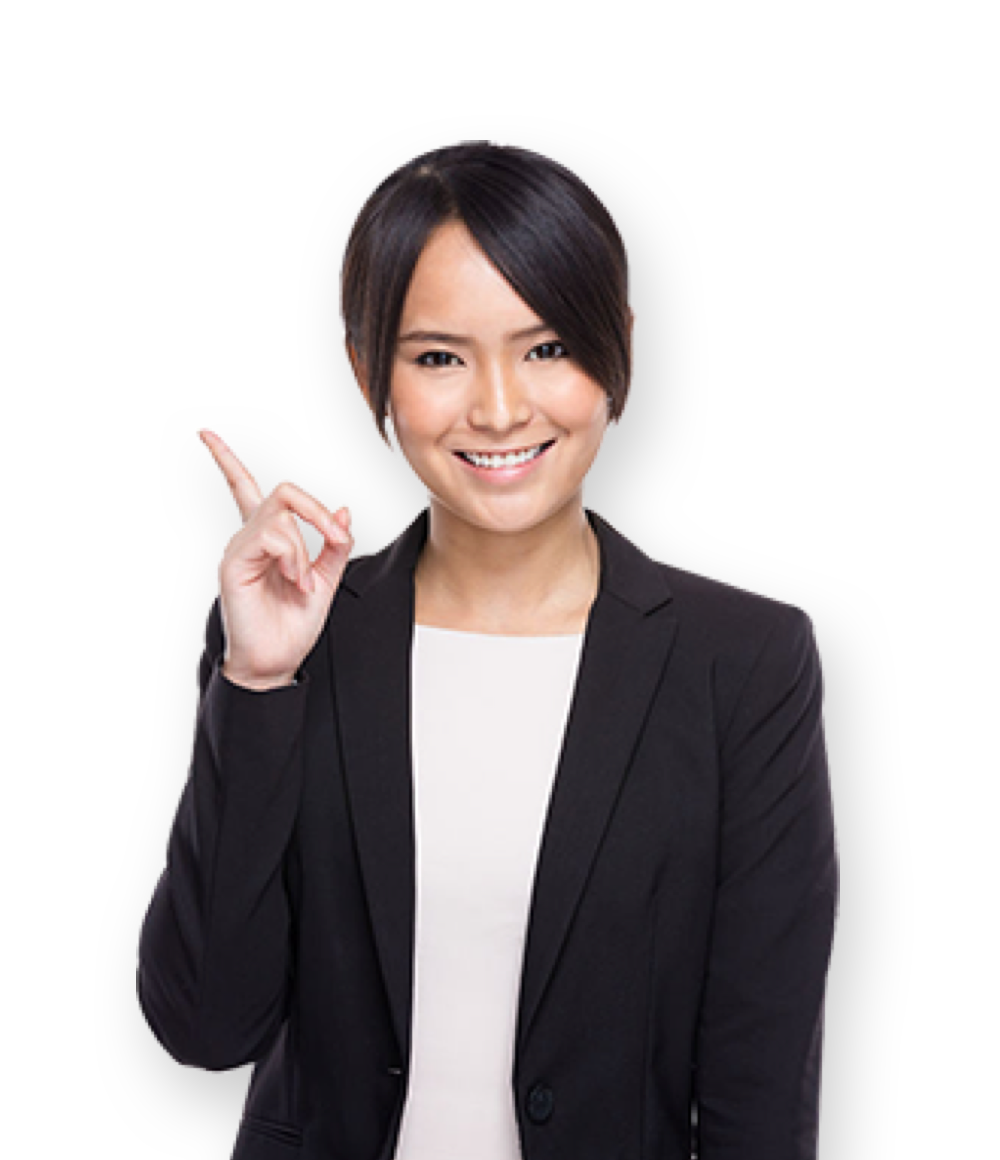
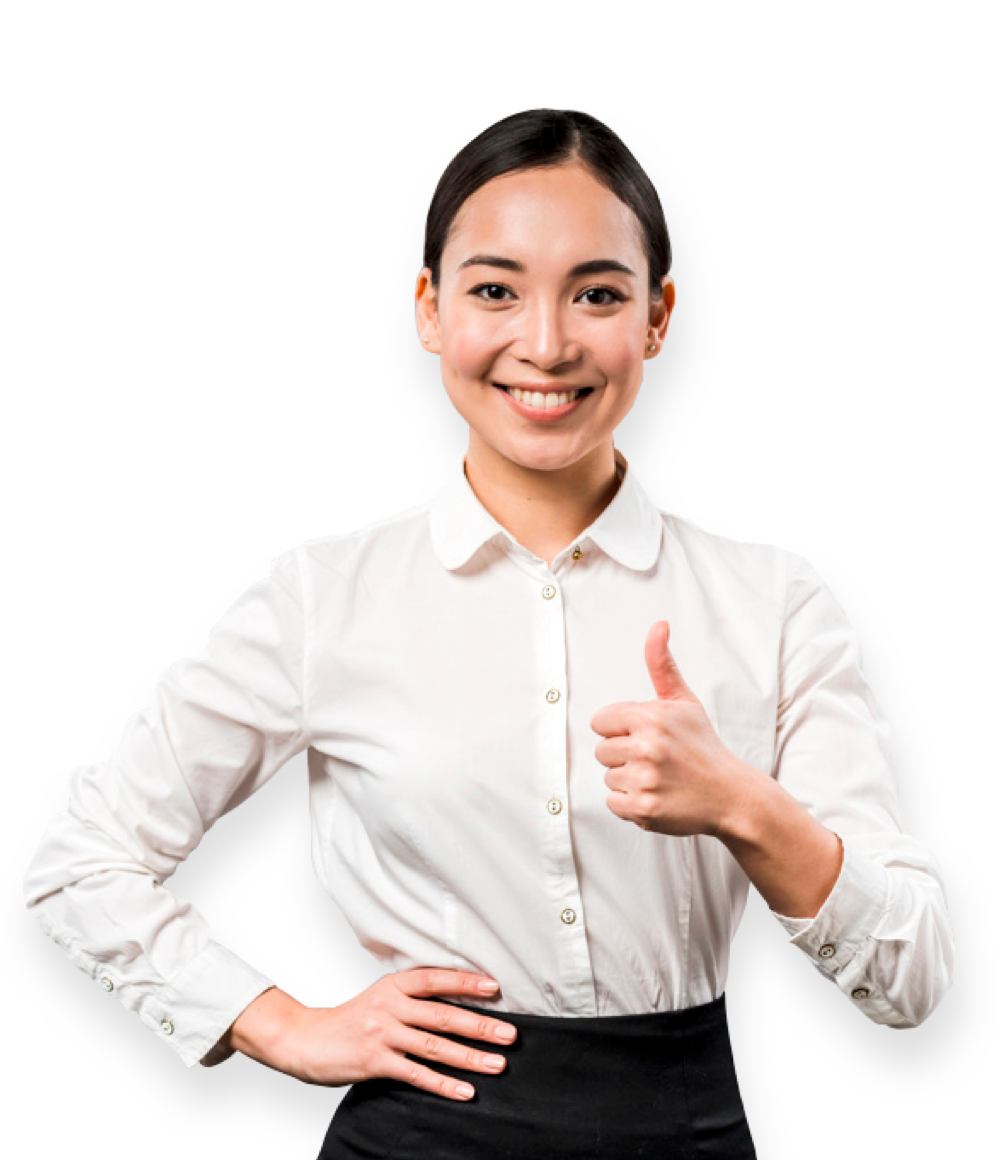
asdasasd

diff --git a/html/common/css/style.css b/html/common/css/style.css
@@ -306,17 +306,9 @@ line-height: 28px;}*/
 
 /*계산기 loan amount peso 입력*/
 .popup_wrap .inner-rule .displayCell{position:relative;}
-.popup_wrap .inner-rule .displayCell.txt-peso{padding-right: 100px;}
-.popup_wrap .inner-rule .displayCell.txt-peso:after{content: 'peso';
-    position: absolute;
-    top:24px;
-    right: -1px;
-    font-family: Lato-Regular;
-    font-size: 12px;
-    color: #999999;
-    letter-spacing: -0.2px;
-    text-align: right;
-	background:#f0f0f0;padding:10px 0 10px 10px;}
+.popup_wrap .inner-rule .displayCell.txt-peso{padding-right: 100px;width:47%;display:block;font-family: Lato-Regular;font-size: 12px;color: #999999;letter-spacing: -0.2px;}
+.popup_wrap .inner-rule .displayCell.txt-peso:after{content: 'PESO';position: absolute;top:32px;right: -1px;font-family: Lato-Regular;font-size: 12px;color: #999999;letter-spacing: -0.2px;text-align:right;background:#f0f0f0;padding:5px 10px 5px 10px;}
+.popup_wrap .inner-rule .txt_loan{font-family: Lato-Regular;font-size: 12px;color: #999999;letter-spacing: -0.2px;line-height: 16px;padding-top:2px;}
 
 /* common-selectType */
 .common-selectType{background:#f0f0f0;height:40px;line-height:40px;border:1px solid #f0f0f0;letter-spacing: -0.2px;text-indent:7px;width:100%;transition:all 0.5s;font-size:12px;color:#999;}
@@ -772,6 +764,8 @@ color: #222222;letter-spacing: -0.2px;text-align: center;line-height: 28px;}
 [data-click="main-vsSlick"].loan_img .counter_wrap .served span.s_txt2 em{display:none;}
 [data-click="main-vsSlick"].loan_img .counter_wrap .served span.s_txt3{font-family: Lato-Regular;font-size: 13px;color: #FFFFFF;letter-spacing: 0;text-align: center;display:block;}
 [data-click="main-vsSlick"].loan_img .box-img img{width:213%;}/*width:200%;*/
+[data-click="main-vsSlick"] .box-txt .txt-1 span{color:#ff7a01;}/*2020-06-03 메인 상단*/
+[data-click="main-vsSlick"] .box-txt .txt-1.tt1{margin:0;width:320px;}/*2020-06-03 메인 상단 문구 사이즈 추가*/
 
 
 /*main loan - Main Counter*/
@@ -1773,14 +1767,12 @@ background:url('../images/icon/ic_calculator_control.png') no-repeat 0 0;backgro
 .inner-rule.loan_wrap .count-loans span#count-sum2, span#count-fee2{font-family: Lato-Bold;font-size: 18px;color: #222222;letter-spacing: -0.18px;text-align: right;}
 .inner-rule.loan_wrap .count-loans span#count-total2{font-family: Lato-Black;font-size: 20px;color: #FF7A01;letter-spacing: -0.18px;text-align: right;position:absolute;top:26px;right:33px;}
 .inner-rule.loan_wrap .count-loans span.in_case{font-family: Lato-Regular;
-font-size: 14px;
-color: #999999;
-letter-spacing: -0.17px;
-text-align: right;padding-top:30px;}
+font-size: 14px;color: #999999;letter-spacing: -0.17px;text-align: right;padding-top:30px;}
 .inner-rule.loan_wrap .count-loans .pt{padding: 16px 0 20px 0;border-bottom:1px solid #0000001a;}
 .inner-rule.loan_wrap .count-loans .pt2{padding-top:20px;position:relative;}
 .inner-rule.loan_wrap .loan_btn .common-btnType-15{margin:40px 0 0 0;font-family: AppleSDGothicNeo-Regular;font-size: 16px;color: #FFFFFF;letter-spacing: -0.18px;text-align: center;}
 .inner-rule.loan_wrap .loan_txt{font-family: Lato-Regular;font-size: 13px;color: #999999;letter-spacing: -0.2px;line-height: 18px;margin-top:20px;}
+
 
 /*Blog-detail*/
 
@@ -2049,7 +2041,12 @@ text-align: right;padding-top:30px;}
 	[data-click="main-vsSlick"] .txt-4{font-size:26px;line-height:32px;}
 	[data-click="main-vsSlick"] .txt-4 br{display:block;}
 	[data-click="main-vsSlick"] .img-1 img{width:257px;}
-	[data-click="main-vsSlick"] .slick-slide:after{background-image:url('../images/bg/bg_main_tablet.png');background-repeat:repeat-y;background-position:0;content:'';clear:both;position:absolute;top:0;left:0;bottom:0;background-color:transparent;}/*2020-05-25 display:block;*/
+	[data-click="main-vsSlick"] .slick-slide:after{background-repeat:repeat-y;background-position:0;content:'';clear:both;position:absolute;top:0;left:0;bottom:0;background-color:transparent;}/*2020-05-25 display:block;*/
+	[data-click="main-vsSlick"].loan_img .slick-slide:before
+	.bg-1 .slick-slide:after{background-image:url('../images/bg/bg_main_tablet.png');}
+	[data-click="main-vsSlick"].bg-2 .slick-slide:after{background-image:url('../images/bg/bg_main_tablet.png');}
+	[data-click="main-vsSlick"].bg-3 .slick-slide:after{background-image:url('../images/bg/bg_main_tablet.png');}
+	[data-click="main-vsSlick"].bg-4 .slick-slide:after{background-image:url('../images/bg/bg_main_tablet.png');}
 
 	/*[data-click="main-vsSlick"] .box-txt .txt-1 span:after{content:'';display:block;clear:both;background-repeat:no-repeat;background-position:0;background-size:16px;width:16px;height:16px;position:absolute;top:190px;right:112px;background-image:url('../images/icon/ic_arrow_more_white.png');}*/
 
@@ -2313,6 +2310,17 @@ text-align: right;padding-top:30px;}
 	#loanCalculator .inner-rule.loan_wrap .gap .inp_radio.type-3 input:checked + label:before {content: '';background: url(../images/icon/btn_apply_check_s.png) -5px 0 no-repeat;background-size: 22px;}
 	#loanCalculator .inner-rule.loan_wrap .gap .inp_radio.type-3 label:befor{left: 50% !important;margin-left: -57px !important;}
 
+	/*계산기 loan amount peso 입력*/
+	.popup_wrap .inner-rule .displayCell{position:relative;}
+	.popup_wrap .inner-rule .displayCell.txt-peso{padding-right: 100px;width:47%;display:block;font-family: Lato-Regular;font-size: 12px;color: #999999;letter-spacing: -0.2px;}
+	.popup_wrap .inner-rule .displayCell.txt-peso:after{content: 'PESO';position: absolute;top:32px;right: -1px;font-family: Lato-Regular;font-size: 12px;color: #999999;letter-spacing: -0.2px;text-align: right;background:#f0f0f0;padding:5px 10px 5px 10px;}
+	.popup_wrap .inner-rule .txt_loan{font-family: Lato-Regular;font-size: 12px;color: #999999;letter-spacing: -0.2px;line-height: 16px;padding-top:2px;}
+	.popup_wrap .inner-rule.loan_wrap .slider-item .loan_num{}
+	.popup_wrap .inner-rule.loan_wrap .slider-item .loan_num li{display:inline-block;padding-right:53px;font-family: Lato-Regular;font-size: 13px;color: #999999;letter-spacing: -0.2px;}
+	.popup_wrap .inner-rule.loan_wrap .slider-item .loan_num li:nth-child(5){padding-right:0;}
+	.popup_wrap .inner-rule.loan_wrap .slider-item .loan_num li{display:inline-block;padding-right:53px;font-family: Lato-Regular;font-size: 13px;color: #999999;letter-spacing: -0.2px;}
+	.popup_wrap .inner-rule.loan_wrap .slider-item .loan_num li:nth-child(5){padding-right:0;}
+
 
 
 	[data-click="main-vsSlick"]{height:1156px;}/*top:119px;*/
@@ -2344,7 +2352,6 @@ text-align: right;padding-top:30px;}
 	[data-click="main-vsSlick"] .box-txt .txt-1 span.tx1 a:after{background-image:none;display:none;}
 	[data-click="main-vsSlick"] .txt-1 br.none{display:block;}/*2020-05-25 추가*/
 	[data-click="main-vsSlick"] .txt-1{width:100%;}
-
 	[data-click="main-vsSlick"] .btn{top:unset;left:unset;bottom:unset;padding-top:43px;}
 	[data-click="main-vsSlick"] .common-btnType-1{width:220px;}
 	[data-click="main-vsSlick"] .slick-dots{bottom:40px;left:0;}
@@ -2355,6 +2362,13 @@ text-align: right;padding-top:30px;}
 	[data-click="main-vsSlick"] .img-1 img{width:304px;margin-left:-10px;}
 	.box-savings{position:absolute;top:341px;right:0;width:375px;bottom:0;/* padding:273px 32px 123px 32px; */height:auto;}
 	[data-click="main-vsSlick"] .slick-slide:after{background-image:url('../images/img/img_main_top_01.png');}
+	[data-click="main-vsSlick"] .box-txt .txt-1.tt1{margin:0;width:100%;}/*2020-06-03 메인 상단 문구 사이즈 추가*/
+
+
+
+
+
+
 	.box-savings .inner{position: absolute;top: 50%;left: 0px;right: 0px;transform: translate(0px, -50%);text-align: center;padding:0 60px;}
 	.box-savings h2{font-size:18px;margin-top:-21px;}
 	.box-savings .txt-1{font-size:36px;padding-bottom:14px;}
@@ -2656,12 +2670,12 @@ text-align: right;padding-top:30px;}
 	.list-news{width:100%;display:flex;flex-wrap:wrap;}
 	.list-news:after{content:'';display:block;clear:both;}
 	/*.list-news li{width:300px;border:1px solid #E6E6E6;margin:40px 16px 0 0;display:flex;align-items:flex-end;}*/
-	.list-news li{float:left;width:298px;height:478px;border: 1px solid #E6E6E6;margin-right:16px;margin-bottom:40px;}
+	.list-news li{float:left;width:298px;min-height:478px;border: 1px solid #E6E6E6;margin-right:16px;margin-bottom:40px;}
 	.list-news li:nth-child(3n){margin-right:0;}
 	.list-news li a{}
 	.list-news li a:hover{}
 	.list-news li img{width:100%;}
-	.list-news li .box-txt{height:245px;padding:33px 23px 70px 23px;position:relative;}
+	.list-news li .box-txt{min-height:245px;padding:33px 23px 70px 23px;position:relative;}
 	.list-news li .box-txt .t-1{}
 	.list-news li .box-txt .t-2{font-family: Lato-Regular;font-size: 14px;color: #666;letter-spacing: -0.2px;line-height: 20px;padding: 0 0 16px 0;}
 	.list-news li .box-txt .t-3{font-family: Lato-Regular;font-size: 14px;color: #666;letter-spacing: -0.2px;line-height: 18px;padding: 0 0 30px 0; min-height: 36px;}
@@ -2903,38 +2917,11 @@ text-align: right;padding-top:30px;}
 	.type_loan .loan_tp p.title:after{content: '';display: block;clear: both;background-image: url(../images/icon/ic_arrow_more_gray.png);background-size: 24px 24px;background-repeat: no-repeat;width: 24px;height: 24px;position: absolute;top:48%;left:150px;}
     .type_loan .loan_tp p.title.tit2:after{content:'';display:block;clear:both;background-image:url('../images/icon/ic_arrow_more_gray.png');background-size:24px 24px;background-repeat:no-repeat;width:24px;height:24px;position:absolute;top:48%;left:125px;}
 	.type_loan .loan_tp p.type_1{font-family: Lato-Regular;font-size: 15px;color: #444444;letter-spacing: -0.2px;line-height: 24px;padding:10px 0 27px 0;}
+	.type_loan .loan_tp p.type_1.t1{padding:10px 0 0 0;height:104px;}/*2020-06-03 추가*/
 	.box-listEtc li a .txt-1{font-family: Lato-Bold;font-size: 24px;color: #222222;letter-spacing: -0.2px;}
 	.box-listEtc li a .txt-2{font-family: Lato-Regular;font-size: 15px;color: #666666;letter-spacing: -0.2px;line-height: 24px;}
-	.box-listEtc li a:after {
-    content: '';
-    display: block;
-    clear: both;
-    position: absolute;
-    top:45px;
-    left:188px;
-    width: 24px;
-    height: 24px;
-    background-image: url(../images/icon/ic_arrow_more_gray.png);
-    background-size: 24px;
-    background-repeat: no-repeat;
-    background-position: 0;
-    transition: all 0.5s;
-    margin-top: -13px;}
-    .box-listEtc li:nth-child(2) a:after {
-    content: '';
-    display: block;
-    clear: both;
-    position: absolute;
-    top:45px;
-    left:145px;
-    width: 24px;
-    height: 24px;
-    background-image: url(../images/icon/ic_arrow_more_gray.png);
-    background-size: 24px;
-    background-repeat: no-repeat;
-    background-position: 0;
-    transition: all 0.5s;
-    margin-top: -13px;}
+	.box-listEtc li a:after{content: '';display: block;clear: both;position: absolute;top:45px;left:188px;width: 24px;height: 24px;background-image: url(../images/icon/ic_arrow_more_gray.png);background-size: 24px;background-repeat: no-repeat;background-position: 0;transition: all 0.5s;margin-top: -13px;}
+    .box-listEtc li:nth-child(2) a:after {content: '';display: block;clear: both;position: absolute;top:45px;left:145px;width: 24px;height: 24px;background-image: url(../images/icon/ic_arrow_more_gray.png);background-size: 24px;background-repeat: no-repeat;background-position: 0;transition: all 0.5s;margin-top: -13px;}
     .box-listEtc.box_etc{padding-top:0;}
     .box-listEtc.box_etc li{box-shadow:none;}
     .box-listEtc.box_etc li a{padding:26px 25px 27px 25px;}

diff --git a/html/index.html b/html/index.html
@@ -77,7 +77,7 @@
 						<div class="loan_tp">
 							<a href="#none">
 								<p class="title">Personal Loan</p>
-								<p class="type_1">Welcome the High Amount of All Purpose Loan Product for Professionals</p>
+								<p class="type_1 t1">The Non-Collateral loan products with lowest interest rate and higher loan amount!</p>
 							</a>
 							<div class="btn_arrow">
 								<a href="#none" class="common-btnType-17 waves-effect waves-light"><span>APPLY NOW!</span></a><!-- class="btnSel-bg" 추가 버튼활성화 -->
@@ -92,7 +92,7 @@
 						<div class="loan_tp">
 							<a href="#none">
 								<p class="title tit2">Salary Loan</p>
-								<p class="type_1">Welcome the High Amount of All Purpose Loan Product for Professionals</p>
+								<p class="type_1 t1">Most widely used loan product width minimum qualifications.</p>
 							</a>
 							<div class="btn_arrow">
 								<a href="#none" class="common-btnType-17 waves-effect waves-light"><span>APPLY NOW!</span></a><!-- class="btnSel-bg" 추가 버튼활성화 -->
@@ -107,7 +107,7 @@
 						<div class="loan_tp">
 							<a href="#none">
 								<p class="title">Business Loan</p>
-								<p class="type_1">Welcome the High Amount of All Purpose Loan Product for Professionals</p>
+								<p class="type_1 t1">Business Loan that offers up to 2Million Pesos</p>
 							</a>
 							<div class="btn_arrow">
 								<a href="#none" class="common-btnType-17 waves-effect waves-light"><span>APPLY NOW!</span></a><!-- class="btnSel-bg" 추가 버튼활성화 -->

diff --git a/html/salary_loan.html b/html/salary_loan.html
@@ -25,11 +25,12 @@
 		<!-- //commonTab -->
 
 		<!-- main-vsSlick -->
-		<section data-click="main-vsSlick" class="loan_img">
+		<section data-click="main-vsSlick" class="loan_img bg-1">
 			<div>
 				<div class="box-txt">
-					<p class="txt-1 loan_tit">Write it as a Personal<br class=
-						"hide-on-pc">Loan and read it as a<br class="hide-on-pc">choice for <span class="point">a happy life!</span></p>
+					<p class="txt-1 loan_tit tt1"><span>Easy and fast<br class="hide-on-pc"></span> application anywhere,<br class="hide-on-pc"> any time, 365 days</p>
+					<!-- <p class="txt-1 loan_tit tt1">Write it as a Personal<br class=
+						"hide-on-pc">Loan and read it as a<br class="hide-on-pc">choice for <span class="point">a happy life!</span></p> -->
 					<div class="box_btn btn_arrow">
 						<a href="#none" class="common-btn-1 txt_nounder">APPLY NOW!</a>
 					</div>
@@ -47,7 +48,7 @@
 					<!-- //counter mobile -->
 				</div>
 				<div class="box-img imgC-5">
-					<img src="common/images/img/main_list_salary.png" alt="">
+					<img src="common/images/img/img_loans_top_salary_m.png" alt="">
 				</div>
 			</div>
 		</section>

diff --git a/html/personal_loan.html b/html/personal_loan.html
@@ -28,8 +28,9 @@
 		<section data-click="main-vsSlick" class="loan_img">
 			<div>
 				<div class="box-txt">
-					<p class="txt-1 loan_tit">Write it as a Personal<br class=
-						"hide-on-pc">Loan and read it as a<br class="hide-on-pc">choice for <span class="point">a happy life!</span></p>
+					<p class="txt-1 loan_tit tt1"><span>Fast non-collateral<br class="hide-on-pc"></span> Personal loan for<br class="hide-on-pc"> for office wokers</p>
+					<!-- <p class="txt-1 loan_tit">Write it as a Personal<br class=
+						"hide-on-pc">Loan and read it as a<br class="hide-on-pc">choice for <span class="point">a happy life!</span></p> -->
 					<div class="box_btn btn_arrow">
 						<a href="#none" class="common-btn-1 txt_nounder">APPLY NOW!</a>
 					</div>
@@ -47,7 +48,7 @@
 					<!-- //counter mobile -->
 				</div>
 				<div class="box-img imgC-5">
-					<img src="common/images/img/img_loans_top_salary_m.png" alt="">
+					<img src="common/images/img/img_loans_top_personal_m.png" alt="">
 				</div>
 			</div>
 		</section>

diff --git a/html/business_loan.html b/html/business_loan.html
@@ -28,7 +28,7 @@
 		<section data-click="main-vsSlick" class="loan_img">
 			<div>
 				<div class="box-txt">
-					<p class="txt-1 loan_tit">Write it as a Personal<br class=
+					<p class="txt-1 loan_tit tt1">Write it as a Personal<br class=
 						"hide-on-pc">Loan and read it as a<br class="hide-on-pc">choice for <span class="point">a happy life!</span></p>
 					<div class="box_btn btn_arrow">
 						<a href="#none" class="common-btn-1 txt_nounder">APPLY NOW!</a>
@@ -47,7 +47,7 @@
 					<!-- //counter mobile -->
 				</div>
 				<div class="box-img imgC-5">
-					<img src="common/images/img/img_loans_top_salary_m.png" alt="">
+					<img src="common/images/img/img_loans_top_business_m.png" alt="">
 				</div>
 			</div>
 		</section>

diff --git a/html/auto_loan.html b/html/auto_loan.html
@@ -28,7 +28,7 @@
 		<section data-click="main-vsSlick" class="loan_img">
 			<div>
 				<div class="box-txt">
-					<p class="txt-1 loan_tit">Write it as a Personal<br class=
+					<p class="txt-1 loan_tit tt1">Write it as a Personal<br class=
 						"hide-on-pc">Loan and read it as a<br class="hide-on-pc">choice for <span class="point">a happy life!</span></p>
 					<div class="box_btn btn_arrow">
 						<a href="#none" class="common-btn-1 txt_nounder">APPLY NOW!</a>

diff --git a/html/inc/footer.php b/html/inc/footer.php
@@ -182,7 +182,7 @@
 								<div class="displayCell" style="width:50%;">
 									<p class="tt-3">Payment Term</p>
 									<select class="common-selectType">
-										<option value="" hidden>Month</option>
+										<option value="" hidden>Select</option>
 										<option>1</option>
 									</select>
 									<span class="txt-error">Error message</span>
@@ -191,7 +191,7 @@
 						</li>
 						<li data-ckInfo="1">
 							<div class="txt-ct displayTableType-1">
-								<div class="displayCell txt-peso" style="width:50%;">
+								<div class="displayCell txt-peso">
 									<p class="tt-3">Loan Amount</p>
 									<p style="position:relative;">
 										<input type="text" class="common-inputType " id="idTestIq" data-checkinquiry="validation">
@@ -203,6 +203,7 @@
 									</p>
 								</div>
 							</div>
+							<p class="txt_loan">Please enter between 20,000~50,000p</p>
 						</li>
 						<li data-ckInfo="2">
 							<div class="txt-ct displayTableType-1">
@@ -283,7 +284,7 @@
 				               <div class="slider-wrp" data-ckInfo="1">
 				                    <div class="slider-item">
 				                        <div class="calc-sum-wrp text-center">
-				                        	<span class="calc_txt">Loan Amount</span>
+				                        	<span class="calc_txt">Monthly Add-On Rate</span>
 				                            <div class="gap-type-1">
 					                            <span id="calc-sum"></span>
 					                            <span class="calc_txt2">peso</span>
@@ -291,8 +292,15 @@
 				                        </div>
 				                        <div class="calc-slider-sum" id="calc-slider-sum"></div>
 				                        <div class="row text-sum">
-				                        	<div class="col-xs-6 num">20,000</div>
-				                        	<div class="col-xs-6 text-right ">500,000</div>
+				                        	<!-- <div class="col-xs-6 num">20,000</div>
+				                        	<div class="col-xs-6 text-right ">500,000</div> -->
+				                        	<ul class="loan_num">
+				                        		<li>1.6</li>
+				                        		<li>2.0</li>
+				                        		<li>2.5</li>
+				                        		<li>3.0</li>
+				                        		<li>4.0</li>
+				                        	</ul>
 				                        </div>
 				                    </div>
 				                    <div class="slider-item" style="display:none;">
